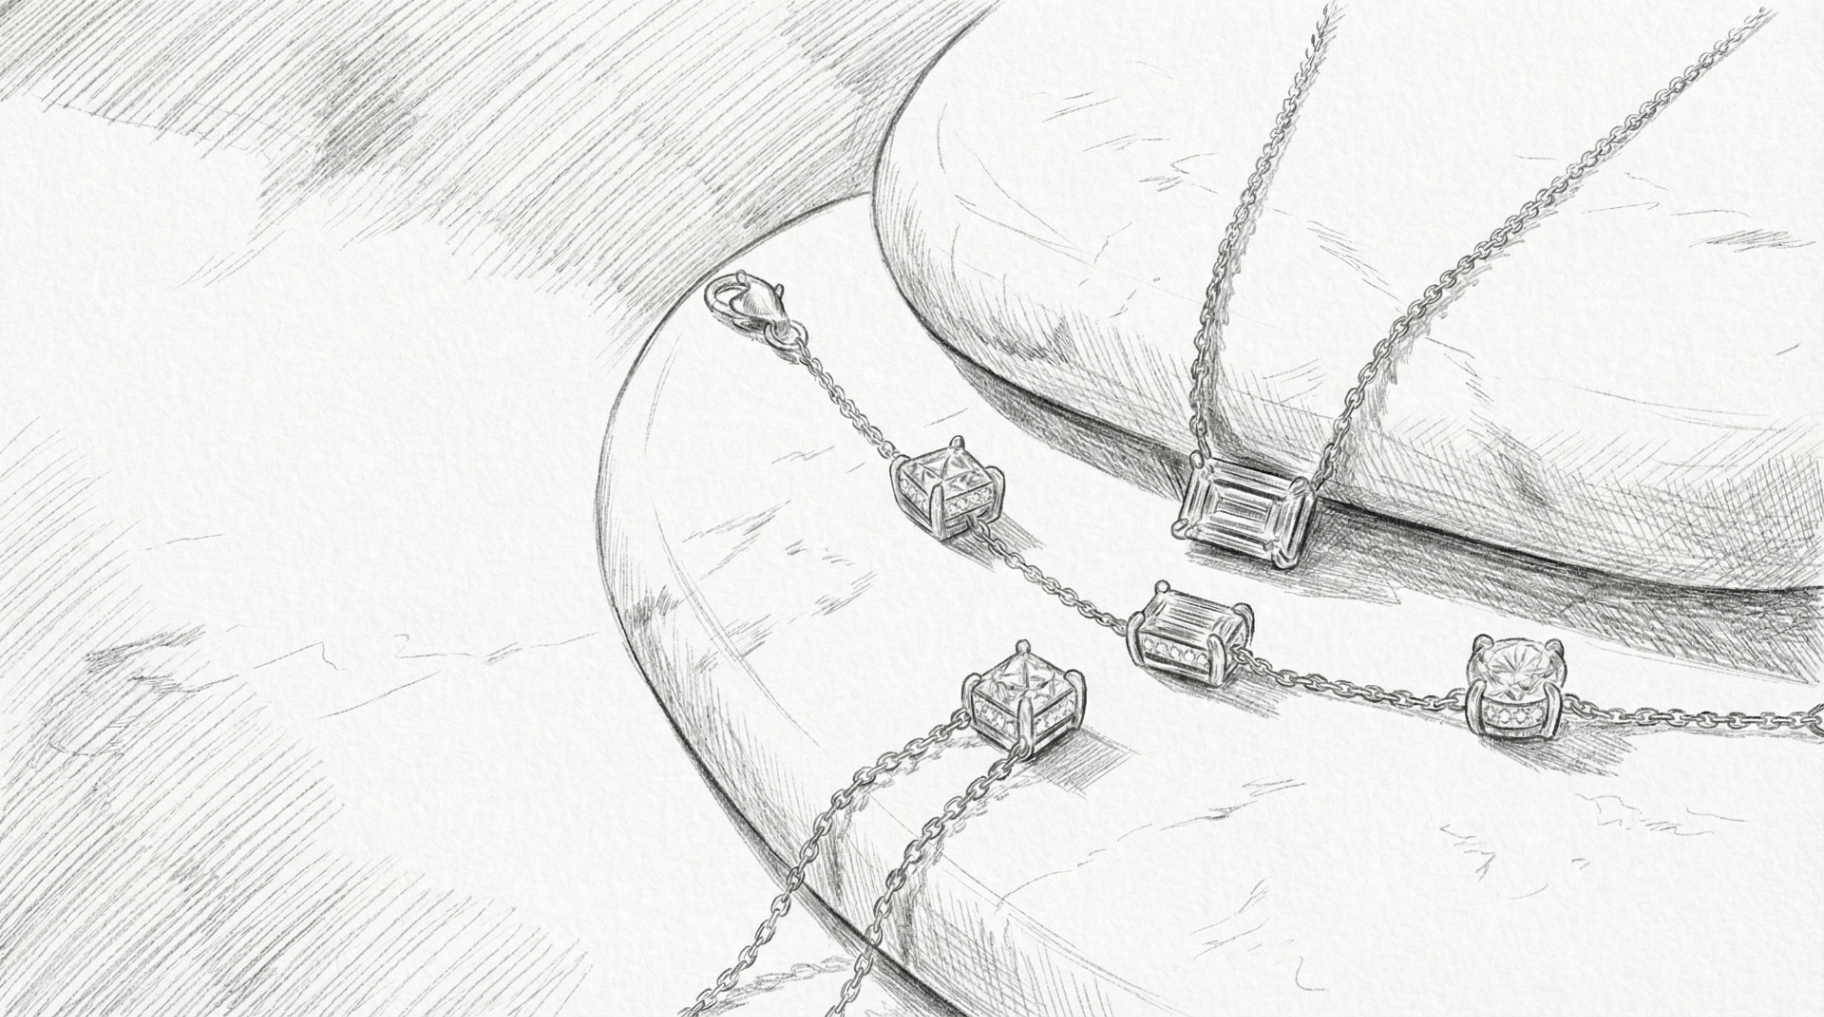
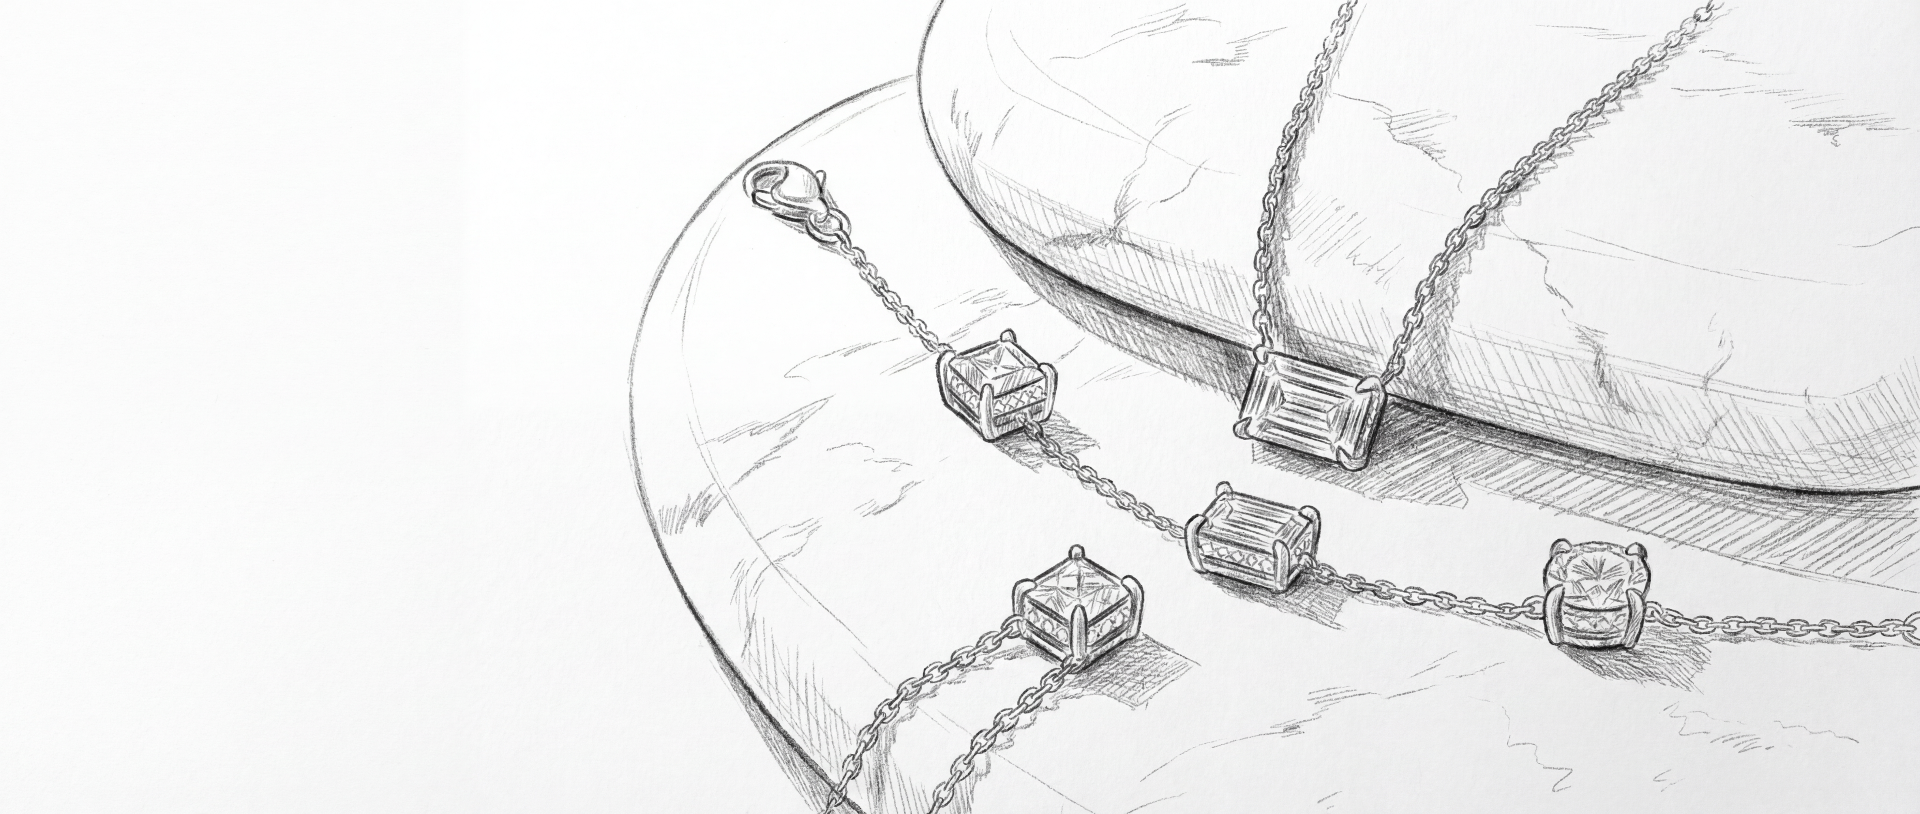
Changes

diff --git a/src/components/HeroSketchReveal.tsx b/src/components/HeroSketchReveal.tsx
@@ -7,8 +7,9 @@ interface HeroSketchRevealProps {
   className?: string;
 }
 
-// Draw image with object-cover behavior (same as CSS object-cover)
-const drawImageCover = (
+// Draw image with object-cover + object-position:right behavior
+// Crops from left side only (keeping right side with content visible)
+const drawImageCoverRight = (
   ctx: CanvasRenderingContext2D,
   img: HTMLImageElement,
   canvasWidth: number,
@@ -23,13 +24,13 @@ const drawImageCover = (
   let offsetY: number;
 
   if (imgRatio > canvasRatio) {
-    // Image is wider - crop horizontally
+    // Image is wider - crop from LEFT only (align right)
     drawHeight = canvasHeight;
     drawWidth = canvasHeight * imgRatio;
-    offsetX = (canvasWidth - drawWidth) / 2;
+    offsetX = canvasWidth - drawWidth; // Align to right edge
     offsetY = 0;
   } else {
-    // Image is taller - crop vertically
+    // Image is taller - crop top/bottom equally
     drawWidth = canvasWidth;
     drawHeight = canvasWidth / imgRatio;
     offsetX = 0;
@@ -288,10 +289,10 @@ export const HeroSketchReveal = ({ className = "" }: HeroSketchRevealProps) => {
         ctx.setTransform(1, 0, 0, 1, 0, 0);
         ctx.clearRect(0, 0, canvas.width, canvas.height);
         
-        // Draw sketch image with object-cover behavior
+        // Draw sketch image with same positioning as base image
         ctx.globalCompositeOperation = "source-over";
         ctx.globalAlpha = 0.85;
-        drawImageCover(ctx, sketchImg, canvasWidth, canvasHeight);
+        drawImageCoverRight(ctx, sketchImg, canvasWidth, canvasHeight);
         
         // Apply mask (destination-in keeps only where mask has alpha)
         ctx.globalCompositeOperation = "destination-in";
@@ -380,11 +381,11 @@ export const HeroSketchReveal = ({ className = "" }: HeroSketchRevealProps) => {
       onPointerLeave={handlePointerLeave}
       onClick={handleTap}
     >
-      {/* Base layer: Real photo */}
+      {/* Base layer: Real photo - object-right to crop from left */}
       <img
         src={heroReal}
         alt="Noori Solitaires Collection - Lab-grown diamond jewelry"
-        className="absolute inset-0 w-full h-full object-cover"
+        className="absolute inset-0 w-full h-full object-cover object-right"
       />
       
       {/* Sketch overlay canvas */}
